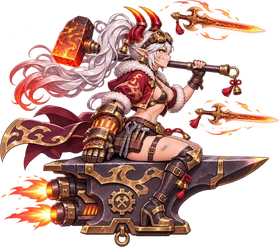
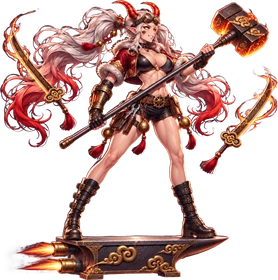
쇠 도깨비: 원본 달빛 극화체 교체, 각성 「쌍망치」
Claude-Session: https://claude.ai/code/session_01X3WCR5Skc58i6ujNZho15h

diff --git a/game/geumeum/dokkaebi-shooter.html b/game/geumeum/dokkaebi-shooter.html
@@ -879,7 +879,7 @@ const FONT = '"Black Han Sans","Apple SD Gothic Neo","Malgun Gothic",sans-serif'
 const IMG = {};
 for (const n of ['hp0', 'hp1', 'hp2n', 'hp2s', 'hc2n', 'hc2s', 'mh0', 'mh1', 'mh2', 'mh3', 'mh4', 'mh5', 'mh6', 'mh7', 'mh8', 'mh9', 'mw_wisp', 'mw_kite', 'mw_drum', 'mw_jar', 'mw_lantern', 'mw_dasher', 'mw_carp', 'mw_fox', 'f3_wisp', 'f3_kite', 'f3_dasher', 'f4_wisp', 'f4_kite', 'f4_dasher', 'f5_wisp', 'f5_kite', 'f5_dasher', 'f6_wisp', 'f6_kite', 'f6_dasher', 'f7_wisp', 'f7_kite', 'f7_dasher', 'f8_wisp', 'f8_kite', 'f8_dasher', 'f9_wisp', 'f9_kite', 'f9_dasher', 'wisp', 'kite', 'drum', 'jar', 'lantern', 'dasher', 'bz0c', 'bz0d', 'bz1a', 'bz8b', 'fg0', 'mini0a', 'mini0b', 'mini0c', 'mid0a', 'mid0b', 'p3', 'cut3x', 'p4', 'cut4x', 'carp', 'mini1a', 'mini1b', 'mini1c', 'mid1a', 'mid1b', 'bz1b', 'fg1', 'ironfx', 'p5', 'cut5x', 'fox', 'mini2a', 'mini2c', 'mid2a', 'boss3', 'bz2b', 'fg3', 'ch3', 'ch5', 'ch6', 'ch7', 'ch8', 'ch9', 'ch10', 'ch11', 'ch12', 'p6','cut6x','p7b','cut7x','p8b','cut8x','p9b','cut9x','p10','cut10x','p11b','cut11x','p12','cut12x','zk3','mini3a','mini3b','mini3c','mid3a','mid3b','bossH3','bz3b','zk4','mini4a','mini4b','mini4c','mid4a','mid4b','bossH4','bz4b','zk5','mini5a','mini5b','mini5c','mid5a','mid5b','bossH5','bz5b','zk6','mini6a','mini6b','mini6c','mid6a','mid6b','bossH6','bz6b','zk7','mini7a','mini7b','mini7c','mid7a','mid7b','bossH7','bz7b','zk8','mini8a','mini8b','mini8c','mid8a','mid8b','bossH8','zk9','mini9a','mini9b','mini9c','mid9a','mid9b','bossH9','bz9b', 'hc0x', 'hp1_o0', 'hc1_o0', 'hc1w', 'forgeAnvil', 'forgeHammer', 'chestC', 'chestG', 'chestE', 'tornado', 'arrowfx', 'hammerfx', 'talisman']) { const im = new Image(); im.src = 'assets/' + n + '.webp'; IMG[n] = im; }
 { const im = new Image(); im.src = 'assets/ch12m.webp'; IMG.ch12 = im; }
-for (const n of ['p13', 'p14', 'p15', 'p16', 'p17', 'p18', 'p19', 'p20', 'p21', 'p22', 'aw0p', 'aw1p', 'aw2p', 'aw1', 'aw2', 'aw5', 'aw5p', 'aw6', 'aw6p', 'aw7', 'aw7p', 'aw12', 'aw12p', 'aw14', 'aw14p', 'aw15', 'aw15p', 'aw17', 'aw17p', 'aw18', 'aw18p', 'aw21', 'aw21p', 'aw13', 'aw13p', 'rp_book', 'aw16', 'aw16p', 'aw19', 'aw19p', 'aw20', 'aw20p', 'cy_m0', 'cy_m1', 'cy_m2', 'cy_m3', 'aw22', 'aw22p', 'aw3', 'aw3p', 'aw4', 'aw4p', 'aw8', 'aw8p', 'aw9', 'aw9p', 'dl_sword']) { const im = new Image(); im.src = 'assets/' + n + '.webp'; IMG[n] = im; } // 기획 15·17 새 그림도 처음부터 불러 둠
+for (const n of ['p13', 'p14', 'p15', 'p16', 'p17', 'p18', 'p19', 'p20', 'p21', 'p22', 'aw0p', 'aw1p', 'aw2p', 'aw1', 'aw2', 'aw5', 'aw5p', 'aw6', 'aw6p', 'aw7', 'aw7p', 'aw12', 'aw12p', 'aw14', 'aw14p', 'aw15', 'aw15p', 'aw17', 'aw17p', 'aw18', 'aw18p', 'aw21', 'aw21p', 'aw13', 'aw13p', 'rp_book', 'aw16', 'aw16p', 'aw19', 'aw19p', 'aw20', 'aw20p', 'cy_m0', 'cy_m1', 'cy_m2', 'cy_m3', 'aw22', 'aw22p', 'aw3', 'aw3p', 'aw4', 'aw4p', 'aw8', 'aw8p', 'aw9', 'aw9p', 'aw10', 'aw10p', 'dl_sword']) { const im = new Image(); im.src = 'assets/' + n + '.webp'; IMG[n] = im; } // 기획 15·17 새 그림도 처음부터 불러 둠
 { const im = new Image(); im.src = 'assets/tower10.webp'; IMG.tower10 = im; } // 층 시작 때 보여 주는 탑 그림 // 여왕의 기: 달 구슬(새 그림)
 for (const n of ['bg0', 'bg1', 'bg2', 'bg3', 'bgS4', 'bgS5', 'bgS6', 'bgS7', 'bgS8', 'bgS10', 'bg0h', 'bg1h', 'bg2h', 'bg3h', 'bgS4h', 'bgS5h', 'bgS6h', 'bgS7h', 'bgS8h', 'bgS10h']) { const im = new Image(); im.src = 'assets/' + n + '.jpg'; IMG[n] = im; }
 const ok = im => im && im.complete && im.naturalWidth > 0;
@@ -3428,7 +3428,7 @@ function drawElite() { for (const e of enemies) { if (!e.elite || e.dead || e.x 
   else { $('btnHome').textContent = '돌아가기'; if (p === 2 && !G.endless && G.floor.st.length === 3) { const sum = G.floor.st.reduce((x, y) => x + (y || 0), 0); $('resName').textContent = (G.stage + 1) + '층 돌파' + (G.diff ? ' ' + DN[G.diff] : ''); $('resText').innerHTML = '이번 층 별 <b>' + sum + ' / 9</b> · 이번 층 골드 <b class="gold">+' + G.floor.gold.toLocaleString() + '</b> · 가진 골드 <b class="gold">' + SAVE.gold.toLocaleString() + '</b>'; } } }; }
 $('btnRestYk').addEventListener('click', () => openYk());
 /* ---------- 기획 16-4: 각성 연출 — 멈춤 → 각성 일러스트 전신 → 얼굴·무기 쪽으로 천천히 확대 → 대사 띠 → 각성 8초 ---------- */
-const AWK = { dur: 1.2, dark: 0.15, inT: 0.2, zoom: 1.0, zoomCh: {}, /* 기획 17: 확대 없앰, 화면 가득 1.2초 */ img: { 0: 'aw0', 1: 'aw1', 2: 'aw2', 3: 'aw3', 4: 'aw4', 5: 'aw5', 6: 'aw6', 7: 'aw7', 8: 'aw8', 9: 'aw9', 12: 'aw12', 13: 'aw13', 14: 'aw14', 15: 'aw15', 16: 'aw16', 17: 'aw17', 18: 'aw18', 19: 'aw19', 20: 'aw20', 21: 'aw21', 22: 'aw22' },
+const AWK = { dur: 1.2, dark: 0.15, inT: 0.2, zoom: 1.0, zoomCh: {}, /* 기획 17: 확대 없앰, 화면 가득 1.2초 */ img: { 0: 'aw0', 1: 'aw1', 2: 'aw2', 3: 'aw3', 4: 'aw4', 5: 'aw5', 6: 'aw6', 7: 'aw7', 8: 'aw8', 9: 'aw9', 10: 'aw10', 12: 'aw12', 13: 'aw13', 14: 'aw14', 15: 'aw15', 16: 'aw16', 17: 'aw17', 18: 'aw18', 19: 'aw19', 20: 'aw20', 21: 'aw21', 22: 'aw22' },
   focus: { 0: [0.62, 0.18], 1: [0.76, 0.24], 2: [0.62, 0.13] }, // 확대 중심(그림 비율): 얼굴과 무기·손의 빛 사이. 15세 기준 — 몸 쪽으로는 확대하지 않음
   line: ['바람아, 달빛을 실어 와라!', '활은 접어 둘게. 이제 베러 간다!', '은하수의 창이여, 깨어나라!', '탈 속 도깨비불이 춤춘다!', '쇠도 먹고 달도 먹는다!', '아홉 꼬리에 달빛이 깃든다!', '장승의 이름으로 막아 서라!', '눈보라야, 모두 얼어붙어라!', '천 년 묵은 비늘이 깨어난다!', '용궁의 물결이여, 일어나라!', '쇠망치에 달을 벼린다!', '어둠이 나의 그림자다!', '뚝딱! 달빛이 쏟아진다!'] };
 for (const k of Object.values(AWK.img)) needImg(k);
@@ -3592,7 +3592,7 @@ function drawBossCut() { const b = G.boss; const U = b && b.ult; if (U && U.t < 
 { const a = drawWpFx; drawWpFx = function () { drawBsk17(); a(); }; }
 { const a = offerHero; offerHero = function () { const r = a(); if (r) { const L = BOSSK[G.stage]; if (L) $('offerText').textContent += ' — 이제 「' + L.slice(0, 3).map(x => x[1]).join('·') + '」는 내 것!'; } return r; }; }
 /* ---------- 기획 17-1·2: 각성 모습·움직임(잔상 3겹·달빛 고리·색 덧칠·꼬리) + 각성 전용 기본 공격·각성판 스킬 + 끝날 때 0.4초 ---------- */
-const AWK2 = { spr: { 0: 'aw0p', 1: 'aw1p', 2: 'aw2p', 3: 'aw3p', 4: 'aw4p', 5: 'aw5p', 6: 'aw6p', 7: 'aw7p', 8: 'aw8p', 9: 'aw9p', 12: 'aw12p', 13: 'aw13p', 14: 'aw14p', 15: 'aw15p', 16: 'aw16p', 17: 'aw17p', 18: 'aw18p', 19: 'aw19p', 20: 'aw20p', 21: 'aw21p', 22: 'aw22p' }, col: ['#9fffe0', '#ffd76a', '#cfe8ff'], trail: [5, 10, 15], endSec: 0.4, shotK: 1.3, skOff: [-28, 28], skK: 0.75 }; // spr: 각성 게임 캐릭터 그림(들어오면 { 0: 'aw0p', ... })
+const AWK2 = { spr: { 0: 'aw0p', 1: 'aw1p', 2: 'aw2p', 3: 'aw3p', 4: 'aw4p', 5: 'aw5p', 6: 'aw6p', 7: 'aw7p', 8: 'aw8p', 9: 'aw9p', 10: 'aw10p', 12: 'aw12p', 13: 'aw13p', 14: 'aw14p', 15: 'aw15p', 16: 'aw16p', 17: 'aw17p', 18: 'aw18p', 19: 'aw19p', 20: 'aw20p', 21: 'aw21p', 22: 'aw22p' }, col: ['#9fffe0', '#ffd76a', '#cfe8ff'], trail: [5, 10, 15], endSec: 0.4, shotK: 1.3, skOff: [-28, 28], skK: 0.75 }; // spr: 각성 게임 캐릭터 그림(들어오면 { 0: 'aw0p', ... })
 for (const k of Object.values(AWK2.spr)) needImg(k);
 const awCol = ch => AWK2.col[ch] || CH[ch].spark || CH[ch].robe;
 function drawAwakeP() { const ch = P.ch, sc = FUN2.awakeScale, img = (AWK2.spr[ch] && ok(IMG[AWK2.spr[ch]])) ? AWK2.spr[ch] : look(ch).img, h0 = CH[ch].h * SZ.p * sc, imw = IMG[img], h = ok(imw) && imw.naturalWidth > imw.naturalHeight * 1.05 ? h0 * 1.05 * imw.naturalHeight / imw.naturalWidth : h0, col = awCol(ch), L = G.awTrail || []; // 가로로 긴 그림은 폭 기준으로 줄여 다른 캐릭터와 크기를 맞춤
@@ -3734,7 +3734,7 @@ function dlMark(e) { const D = G.dl; if (!D) return; if (e.st) delete e.st.mark;
 function dlEnd() { const D = G.dl; if (!D) return; const y = P.y; D.sw = []; fx2({ k: 'hline', y, d: 0.45, col: '#ff3a5a' }); G.shake = 0.5; G.flash = Math.max(G.flash, 0.3); banner('…다시, 활로.', '', 1);
   withSrc('awk', () => { for (const e of inFront(P.x, W + 20, y, 40)) hitEl(e, AWK_DL.finalArrow, 'mark', { pen: 1 }); for (const e of enemies) if (!e.dead && e.st && e.st.mark > 0) dlMark(e); }); tone(392, 0.4, 'triangle', 0.08, 200); }
 // 그리기: 칼바람(진홍 반달), 칼 회전, 돌진 잔상, 갈라지는 0.3초, 벨 때 앞으로 튀어나감
-{ const a = drawShot; drawShot = function (s) { if (s.snw) return drawSnw(s); if (s.jsw) return drawJsw(s); if (s.qcw) return drawQcw(s); if (s.bpw) return drawBpw(s); if (s.htw) return drawHtw(s); if (s.ubw) return drawUbw(s); if (s.upw) return drawUpw(s); if (s.jxw) return drawJxw(s); if (s.mpw) return drawMpw(s); if (s.ssw) return drawSsw(s); if (s.hbw) return drawHbw(s); if (s.rpw) return drawRpw(s); if (s.hgw) return drawHgw(s); if (s.sgw) return drawSgw(s); if (s.cyw) return drawCyw(s); if (s.krw) return drawKrw(s); if (s.tdw) return drawTdw(s); if (s.bgw) return drawBgw(s); if (s.imw) return drawImw(s); if (s.ywm) return drawYwm(s); if (!s.dlw) return a(s); ctx.save(); ctx.translate(s.x, s.y); ctx.rotate(Math.atan2(s.vy, s.vx)); ctx.globalCompositeOperation = 'lighter'; ctx.strokeStyle = 'rgba(255,60,90,.9)'; ctx.lineWidth = 5; ctx.beginPath(); ctx.arc(-8, 0, 18, -1.2, 1.2); ctx.stroke(); ctx.strokeStyle = 'rgba(255,200,210,.9)'; ctx.lineWidth = 2; ctx.beginPath(); ctx.arc(-6, 0, 17, -1.0, 1.0); ctx.stroke(); ctx.restore(); }; }
+{ const a = drawShot; drawShot = function (s) { if (s.snw) return drawSnw(s); if (s.jsw) return drawJsw(s); if (s.qcw) return drawQcw(s); if (s.bpw) return drawBpw(s); if (s.htw) return drawHtw(s); if (s.ubw) return drawUbw(s); if (s.upw) return drawUpw(s); if (s.jxw) return drawJxw(s); if (s.mpw) return drawMpw(s); if (s.ssw) return drawSsw(s); if (s.hbw) return drawHbw(s); if (s.rpw) return drawRpw(s); if (s.hgw) return drawHgw(s); if (s.sgw) return drawSgw(s); if (s.cyw) return drawCyw(s); if (s.krw) return drawKrw(s); if (s.tdw) return drawTdw(s); if (s.bgw) return drawBgw(s); if (s.imw) return drawImw(s); if (s.ywm) return drawYwm(s); if (s.sdw) return drawSdw(s); if (!s.dlw) return a(s); ctx.save(); ctx.translate(s.x, s.y); ctx.rotate(Math.atan2(s.vy, s.vx)); ctx.globalCompositeOperation = 'lighter'; ctx.strokeStyle = 'rgba(255,60,90,.9)'; ctx.lineWidth = 5; ctx.beginPath(); ctx.arc(-8, 0, 18, -1.2, 1.2); ctx.stroke(); ctx.strokeStyle = 'rgba(255,200,210,.9)'; ctx.lineWidth = 2; ctx.beginPath(); ctx.arc(-6, 0, 17, -1.0, 1.0); ctx.stroke(); ctx.restore(); }; }
 function drawDl() { const D = G.dl; if (!D || G.mode !== 'play') return; const im = IMG.dl_sword;
   for (const s of D.sw) { ctx.save(); ctx.translate(s.x, s.y); ctx.rotate(s.a); ctx.globalCompositeOperation = 'lighter'; glow('red', 0, 0, 30, 0.5); ctx.globalCompositeOperation = 'source-over'; if (ok(im)) ctx.drawImage(im, -36, -11.5, 72, 23); ctx.restore(); }
   const ds = D.dash; if (ds) { const tr = ds.trail; for (let i = 0; i < 3; i++) { const q = tr[Math.floor(tr.length * (i + 1) / 4)]; if (q) spr(AWK2.spr[1], q.x, q.y, CH[1].h * SZ.p * FUN2.awakeScale, { add: 1, alpha: 0.25 }); } if (!ds.scar && ds.t > AWK_DL.dashTime) { ctx.save(); ctx.strokeStyle = 'rgba(255,40,70,.8)'; ctx.lineWidth = 3; ctx.beginPath(); ctx.moveTo(ds.x0, ds.y - 10); ctx.lineTo(W, ds.y + 10); ctx.moveTo(ds.x0, ds.y + 10); ctx.lineTo(W, ds.y - 10); ctx.stroke(); ctx.restore(); } }
@@ -4267,6 +4267,29 @@ function drawYw() { const M = G.yw; if (!M || G.mode !== 'play') return; ctx.sav
   if (M.split > 0 && M.split < 0.3) { const k = 1 - M.split / 0.3; glow('blue', P.x + 20, P.y, 20 + 60 * k, 1 - k); }
   ctx.restore(); }
 { const a = drawWpFx; drawWpFx = function () { a(); drawYw(); }; }
+/* ---------- 쇠 도깨비 각성 「쌍망치」 (기획 20 쇠 도깨비 행) — 칼비 5자루(표식 적 따라감)·벼림(각성 중 모든 공격 +20%)·쌍망치 내려찍기 2연·끝 망치 던져 큰 불꽃 ---------- */
+const AWK_SD = { gap: 0.32, n: 5, sp: 520, dmg: 1.6, forge: 1.2, smashX: 110, smashR: 70, smashDmg: 12, smashGap: 0.3, throwSp: 620, endR: 120, endDmg: 22, col: '#ff8a3a' };
+const sdOn = () => G.awake > 0 && P.ch === 10 && G.mode === 'play';
+{ const a = fire; fire = function () { const n0 = shots.length; a(); if (sdOn()) shots.splice(n0); }; }
+{ const a = damage; damage = function (e, d) { return a(e, sdOn() ? d * AWK_SD.forge : d); }; }
+function drawSdw(s) { ctx.save(); ctx.translate(s.x, s.y); ctx.rotate(Math.atan2(s.vy, s.vx)); ctx.globalCompositeOperation = 'lighter'; glow('fire', -10, 0, 12, 0.7); ctx.globalCompositeOperation = 'source-over'; ctx.fillStyle = '#ffd08a'; ctx.beginPath(); ctx.moveTo(14, 0); ctx.lineTo(-6, -3); ctx.lineTo(-6, 3); ctx.fill(); ctx.fillStyle = '#8a5a22'; ctx.fillRect(-14, -2, 8, 4); ctx.fillStyle = '#e8b84a'; ctx.fillRect(-7, -5, 2, 10); ctx.restore(); }
+function sdUpd(dt) { const M = G.sd = G.sd || { cd: 0, fx: [] }; if (M.split > 0) M.split -= dt; for (const f of M.fx) f.t += dt; M.fx = M.fx.filter(f => f.t < f.T);
+  const S = M.smash; if (S) { S.t += dt; if (S.t >= S.next && S.n < 2) { S.n++; S.next += AWK_SD.smashGap; const x = P.x + AWK_SD.smashX, y = P.y + (S.n === 1 ? -20 : 20); withSrc('sk', () => { for (const e of enemies) if (!e.dead && Math.hypot(e.x - x, e.y - y) < AWK_SD.smashR + e.r * 0.5) hitEl(e, AWK_SD.smashDmg, 'fire', { heavy: 1 }); }); bullets = bullets.filter(b => Math.hypot(b.x - x, b.y - y) > AWK_SD.smashR); M.fx.push({ x, y, r: AWK_SD.smashR, t: 0, T: 0.4 }); G.shake = Math.max(G.shake, 0.35); tone(110, 0.2, 'square', 0.08, -40); } if (S.t > 0.8) M.smash = null; }
+  const T = M.thr; if (T) { T.x += AWK_SD.throwSp * dt; T.a += dt * 14; if (T.x >= T.tx) { M.thr = null; withSrc('awk', () => { for (const e of enemies) if (!e.dead && Math.hypot(e.x - T.tx, e.y - T.y) < AWK_SD.endR + e.r * 0.5) hitEl(e, AWK_SD.endDmg, 'fire', { heavy: 1 }); }); bullets = bullets.filter(b => Math.hypot(b.x - T.tx, b.y - T.y) > AWK_SD.endR); M.fx.push({ x: T.tx, y: T.y, r: AWK_SD.endR, t: 0, T: 0.8 }); G.shake = 0.55; G.flash = Math.max(G.flash, 0.3); tone(70, 0.6, 'sawtooth', 0.09, 30); } }
+  if (!sdOn()) return; const firing = keys.fire || touch.down || touch.auto;
+  if (firing && (M.cd -= dt) <= 0) { M.cd = AWK_SD.gap; withSrc('awk', () => { for (let i = 0; i < AWK_SD.n; i++) { const an = (i / (AWK_SD.n - 1) - 0.5) * 0.6; ps(P.x + 20, P.y - 20 + (i - 2) * 6, Math.cos(an) * AWK_SD.sp, Math.sin(an) * AWK_SD.sp, 6, AWK_SD.dmg, 6, { sdw: 1, home: 1, el: 'fire' }); } }); } }
+{ const a = charSkill; charSkill = function (ch) { if (!(ch === 10 && sdOn())) return a(ch); if (G.sd.smash) return; G.sd.smash = { t: 0, n: 0, next: 0 }; float('쌍망치 내려찍기!', P.x, P.y - 50, AWK_SD.col); }; }
+{ const a = awakeStart; awakeStart = function () { const was = G.awake > 0; a(); if (!was && G.awake > 0 && P.ch === 10) G.sd = { cd: 0, fx: [], split: AWK.dur + 0.3 }; }; }
+{ const a = awakeUpd; awakeUpd = function (dt) { const was = G.awake > 0 && P.ch === 10; a(dt); if (G.mode === 'play') sdUpd(dt); if (was && !(G.awake > 0)) sdEnd(); }; }
+function sdEnd() { const M = G.sd = G.sd || { fx: [] }; M.smash = null; M.thr = { x: P.x + 20, y: P.y - 20, tx: Math.max(P.x + 180, W * 0.6), a: 0 }; banner('망치여, 불꽃으로 터져라!', '', 1); tone(300, 0.2, 'square', 0.06, 200); }
+function sdHammer(x, y, s, a) { ctx.save(); ctx.translate(x, y); ctx.rotate(a); ctx.fillStyle = '#5a3a1e'; ctx.fillRect(-s, -s * 0.1, s * 1.4, s * 0.2); ctx.fillStyle = '#3a2f2a'; ctx.fillRect(s * 0.25, -s * 0.45, s * 0.6, s * 0.9); ctx.fillStyle = 'rgba(255,150,60,.9)'; ctx.fillRect(s * 0.3, -s * 0.4, s * 0.5, s * 0.8); ctx.strokeStyle = '#c8a050'; ctx.lineWidth = 2; ctx.strokeRect(s * 0.25, -s * 0.45, s * 0.6, s * 0.9); ctx.restore(); }
+function drawSd() { const M = G.sd; if (!M || G.mode !== 'play') return; ctx.save();
+  if (sdOn()) { ctx.font = 'bold 11px ' + FONT; ctx.textAlign = 'center'; ctx.fillStyle = 'rgba(255,190,110,.9)'; ctx.fillText('벼림 +20%', P.x, P.y - 62); }
+  if (M.thr) { ctx.globalCompositeOperation = 'lighter'; glow('fire', M.thr.x, M.thr.y, 40, 0.8); ctx.globalCompositeOperation = 'source-over'; sdHammer(M.thr.x, M.thr.y, 26, M.thr.a); }
+  ctx.globalCompositeOperation = 'lighter'; for (const f of M.fx) { const k = f.t / f.T; glow('fire', f.x, f.y, f.r * (0.6 + k), 1 - k); }
+  if (M.split > 0 && M.split < 0.3) { const k = 1 - M.split / 0.3; glow('fire', P.x + 20, P.y, 20 + 60 * k, 1 - k); }
+  ctx.restore(); }
+{ const a = drawWpFx; drawWpFx = function () { a(); drawSd(); }; }
 /* ---------- 그믐의 맹세 (기획 8의 3): 스스로 고르는 어려움. 일반 층과 그믐의 탑 모두에 걸린다. 첫 결말 뒤에 열린다 ---------- */
 const OATHS = [ // [id, 이름, 최대 단계, 단계당 점수, 효과]
   ['hp', '단단한 요괴', 3, 1, '적 체력 +20%씩'],

diff --git a/game/geumeum/README.md b/game/geumeum/README.md
@@ -407,3 +407,10 @@
 - ② 보조: 2초마다 앞에 해일 방벽 1.2초(적 탄을 지움).
 - ③ 스킬: 월도 회전 베기 ×3(둘레 피해·탄 제거).
 - ④ 끝: 화면을 가로지르는 해일 휩쓸기. 수치는 `AWK_YW`.
+
+### 쇠 도깨비 각성 「쌍망치」 (캐릭터 10, 기획 20 쇠 도깨비 행)
+- 원본 `p10`·`cut10x` 달빛 극화체로 교체(로켓 모루 위에 서서 망치를 두 손으로). 각성 그림 `aw10`, 각성 몸 `aw10p`(쌍망치). 몸 흔들기 없음. 각성 대사는 기존 「쇠망치에 달을 벼린다!」.
+- ① 자동: 불 칼비 5자루(적을 따라감).
+- ② 보조 벼림: 각성 중 모든 공격 피해 +20%(머리 위 표시).
+- ③ 스킬: 쌍망치 내려찍기 2연(앞쪽 위·아래, 탄 제거).
+- ④ 끝: 망치를 던져 큰 불꽃. 모루 로켓 불꽃은 그림에 있어 효과를 따로 붙이지 않음. 수치는 `AWK_SD`.
